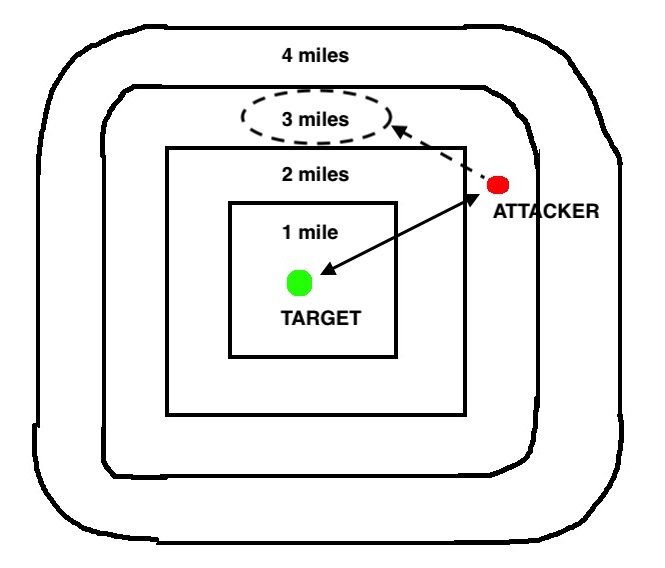
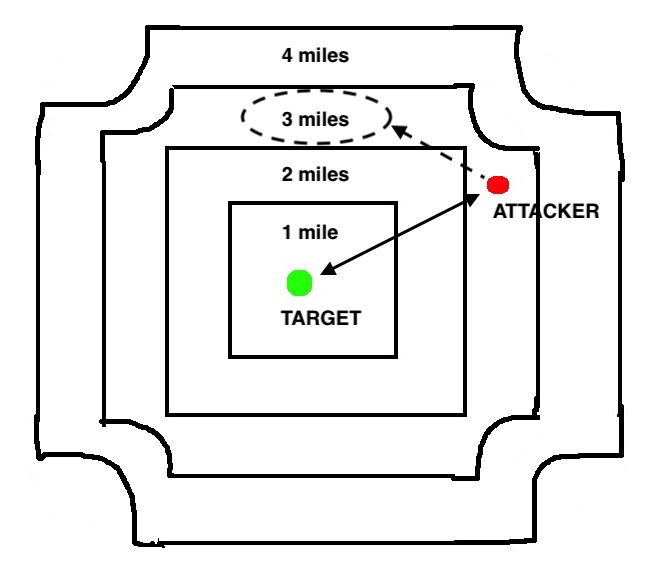
tinder

diff --git a/_posts/2018-07-09-how-tinder-keeps-your-exact-location-a-bit-private.md b/_posts/2018-07-09-how-tinder-keeps-your-exact-location-a-bit-private.md
@@ -1,28 +1,33 @@
 ---
 title: How Tinder keeps your exact location (a bit) private
 layout: post
-tags: [The Adventures of Steve Steveington, Online Tracking]
+tags: [The Steve Steveington Chronicles, Online Tracking]
 og_image: https://robertheaton.com/images/tinder-map.jpg
+published: false
 ---
-You and your good buddy, Steve Steveington, are the co-founders and co-CEOs of an online tracking company. You started the company only a year ago in order to commercialize [a WhatsApp metadata leak that you discovered](/2017/10/09/tracking-friends-and-strangers-using-whatsapp/). You would both really benefit from some co-leadership training, but the venture capital and poorly-pseudonymized personal data are flowing freely and no one else seems to mind. You've built a powerful and precariously employed team of 65 assorted interns, work experience kids, Task Rabbits and unpaid trial workers. You recently moved into an exquisite new office in the 19th Century Literature section of the San Francisco Public Library. Your reputation in the online marketing sector is flourishing, and you've been featured in numerous listicles of the shadiest and best ways to improve your e-commerce conversion rates.
+You and your good buddy, Steve Steveington, are the co-founders and co-CEOs of an online tracking company. You started the company less than a year ago in order to commercialize [a WhatsApp metadata leak that you discovered](/2017/10/09/tracking-friends-and-strangers-using-whatsapp/). You would both really benefit from some co-leadership training, but the venture capital and poorly-pseudonymized personal data are flowing freely and no one else seems to mind. You've built the company into a powerful and precariously employed team of 65 assorted interns, work experience kids, Task Rabbits and unpaid trial workers. You recently moved into an exquisite new office in the 19th Century Literature section of the San Francisco Public Library, and your reputation in the online marketing sector is flourishing. You've been featured prominently in numerous listicles of the shadiest and best ways to improve your e-commerce conversion rates.
 
 But beneath this shiny and disreputable exterior lies turmoil. You suspect that Steve Steveington, your good buddy, co-founder and co-CEO, is plotting against you. He keeps darting out of the library at odd times, for hours on end. When you ask him where he's going he makes a weird grimace that he probably thinks is a malevolent smile and tells you not to worry. You've ordered the librarians to tail him several times, but they are all terrible at fieldcraft.
 
 You've lived in Silicon Valley for long enough to know the kind of cutthroat villainy that goes on when large sums of money and user data are at stake. Steve Steveington and his weird grimace could be doing anything out there. He's probably trying to convince your investors to squeeze you out. You think that Peter Thiel will back you up, but aren't so sure about Aunt Martha. You have to find out where Steve is going.
 
-Fortunately, the Stevester is an avid Tinder user. The Tinder app tracks its users' locations in order to tell potential matches how far away they are from each other. This enables users to make rational decisions about whether it's really worth traveling 8 miles to see a 6, 6.5 tops when they've got a tub of ice cream in the fridge and work the next morning. Tinder knows exactly where Steve is going. And if you can find the right exploit, soon you will too.
+Fortunately, the Stevester is an avid Tinder user. The Tinder app tracks its users' locations in order to tell potential matches how far away they are from each other. This enables users to make rational decisions about whether it's really worth traveling 8 miles to see a 6, 6.5 tops, when they've alternatively got a tub of ice cream in the fridge and work the next morning. Tinder knows exactly where Steve is going. And if you can find the right exploit, soon you will too.
 
-You scour the online literature to find inspiration from Tinder's past location privacy vulnerabilities. There are several to choose from. In 2013, it was discovered that [the Tinder servers sent potential matches' exact co-ordinates to the Tinder app](https://qz.com/106731/tinder-exposed-users-locations/). The app used these co-ordinates internally to calculate distances between users, and did not display them in the interface. However, an attacker could easily intercept their own network traffic, inspect the raw data, and reveal their target's exact location. When the issue was discovered, Tinder quietly stopped sending precise co-ordinates to their app and [denied the possibility that the vulnerability was either avoidable or bad](https://qz.com/106731/tinder-exposed-users-locations/).
+You scour the online literature to find inspiration from Tinder's past location privacy vulnerabilities. There are several to choose from. In 2013, it was discovered that [the Tinder servers sent potential matches' exact co-ordinates to the Tinder phone app](https://qz.com/106731/tinder-exposed-users-locations/). The app used these co-ordinates internally to calculate distances between users, and did not display them in the interface. However, an attacker could easily intercept their own network traffic, inspect the raw data, and reveal their target's exact location. When the issue was discovered, Tinder quietly stopped sending precise co-ordinates to their app and [denied the possibility that the vulnerability was either avoidable or bad](https://qz.com/106731/tinder-exposed-users-locations/).
 
 <img src="/images/tinder-json.jpg" />
 
-Tinder tried to fix this vulnerability by calculating distances on their servers instead of in their app. Now the network messages sent from server to app contained only these pre-calculated distances, with no actual locations. However, Tinder carelessly sent these distances as exact, unrounded numbers with a robust 15 decimal places of precision. This new oversight allowed [sneaky researchers to once again pinpoint a target's exact location](http://blog.includesecurity.com/2014/02/how-i-was-able-to-track-location-of-any.html) using a different, trilateration exploit. The researchers sent 3 spoofed location updates to Tinder to jump themselves around the city. At each new location they asked Tinder how far away their target was. Finally they drew 3 circles on a map, with centers equal to the spoofed locations and radii equal to the distances that they got back from Tinder. The point at which these circles intersected was their target's location, to a reported accuracy of 30 meters.
+Tinder tried to fix this vulnerability by calculating distances on their servers instead of in their app. Now the network messages sent from server to app contained only these pre-calculated distances, with no actual locations. However, Tinder carelessly sent these distances as exact, unrounded numbers with a robust 15 decimal places of precision.
+
+<img src="/images/tinder-json2.jpg" />
+
+This new oversight allowed [sneaky researchers to once again pinpoint a target's exact location](http://blog.includesecurity.com/2014/02/how-i-was-able-to-track-location-of-any.html) using a different, trilateration exploit. The researchers sent 3 spoofed location updates to Tinder to jump themselves around the city. At each new location they asked Tinder how far away their target was. Finally they drew 3 circles on a map, with centers equal to the spoofed locations and radii equal to the distances that they got back from Tinder. The point at which these circles intersected was their target's location, to a reported accuracy of 30 meters.
 
 <img src="/images/tinder-trilateration.jpg" />
 
-Tinder inwardly sighed, wished that people would just leave it alone, and quietly fixed the vulnerability, properly this time. Tinder now only ever sends your phone pre-rounded distances, in miles, with zero decimal places of precision. It's still possible to use the above trilateration procedure to locate a target to within a mile or so. But in the densely populated (by US standards) city of San Francisco, this won't tell you anything useful about where Steve Steveington is committing his dastardly subterfuge.
+Tinder inwardly sighed, wished that people would just leave it alone, and quietly fixed the vulnerability, properly this time. Tinder now only ever sends your phone pre-rounded distances, in miles, with zero decimal places of precision. It's still possible to use the above trilateration procedure to locate a target to within a mile or so. But in the densely populated city of San Francisco, this won't tell you anything useful about where Steve Steveington is committing his dastardly subterfuge.
 
-One Friday afternoon, Steve Steveington and his weird grimace once again sneak out to commit various deeds in undisclosed locations. You have to get to the bottom of this before it's too late. You barricade yourself in your private office, in the reading room on the 4th floor. After fifteen minutes of deep breathing and even deeper thought, you hatch the beginnings of a plan to resuscitate the Tinder trilateration exploit and work out where the Stevester is going.
+On Friday afternoon, Steve Steveington and his weird grimace once again sneak out to commit various deeds in undisclosed locations. You have to get to the bottom of this before it's too late. You barricade yourself in your private office, in the reading room on the 4th floor. After fifteen minutes of deep breathing and even deeper thought, you hatch the beginnings of a plan to resuscitate the Tinder trilateration exploit and work out where the Stevenator is going.
 
 Suppose that the Tinder servers now calculate exact distances, round them to the nearest integer, then send these rounded numbers to your phone. You could start a new attack in the same way as the trilateration researchers. You could spoof a Tinder location update and ask Tinder how far away your target is. Tinder might say "8 miles", which on its own is of little use to you. But you could then start shuffling north, pixel-by-pixel, with each step asking Tinder again how far away your target is. "8 miles" it might say. "8 miles, 8 miles, 8 miles, 8 miles, 7 miles." If your assumptions about Tinder's approximation process are correct, then the point at which it flips from responding with "8 miles" to "7 miles" is the point at which your target is exactly 7.5 miles away. If you repeat this process 3 times and draw 3 circles, you've got trilateration again.
 
@@ -32,7 +37,11 @@ But something is wrong. Night falls, dinnertime passes, and you still haven't re
 
 <img src="/images/tinder-trilateration-fail.jpg" />
 
-Frustrated, you take a step back. You bump your head on a low shelf. After extricating yourself from an avalanche of cleaning products, you contemplate the possibility that your assumptions might be wrong. Maybe Tinder is doing something more elaborate than calculating exact distances and rounding then. You grab a snack from the library employee fridge to help you think. Shortly after 1am, everything becomes clear.
+Frustrated, you take a step back. You bump your head on a low shelf. After extricating yourself from an avalanche of cleaning products, you contemplate the possibility that your assumptions might be wrong. Maybe Tinder is doing something more elaborate than calculating exact distances and rounding then. You grab a snack from the library employee fridge to help you think. You stop drawing circles and you start shuffling along lines that rake across Wilson's true location, dropping a single pin whenever your distance from him changes.
+
+Shortly after 1am, everything becomes clear.
+
+<img src="/images/tinder-map.jpg" />
 
 Tinder is now so committed to privacy that it has burst the surly bonds of conventional geometry. It has cast aside Euclid. It has no need for [the Haversine Formula](https://en.wikipedia.org/wiki/Haversine_formula). Instead, when calculating distances between matches, Tinder introduces 2 new innovations.
 
@@ -40,7 +49,7 @@ First and most important, it divides the city up into grid squares, very roughly
 
 <img src="/images/tinder-grid-snap.jpg" />
 
-Second, it calculates distances using what appears to be an entirely custom formula. To calculate the distance between an attacker and a target, it overlays a map of rough, pre-determined distances, and centres it on the target's grid square. It looks up the attacker's position in the overlay, and returns the corresponding distance. For Euclidean distance calculations, this overlay would be a set of concentric circles.
+Second, it calculates distances using what appears to be an entirely custom formula. To calculate the distance between an attacker and a target, it overlays a map of rough, pre-determined distances, and centres it on the target's grid square. It looks up the attacker's position in the overlay, and returns the corresponding distance. For normal, Euclidean distance calculations, this overlay would be a set of concentric circles.
 
 <img src="/images/tinder-circles.jpg" />
 
@@ -52,9 +61,7 @@ Amongst other things, this means that Tinder often returns distances that are a 
 
 Grid-snapping is the key innovation in Tinder's approach. It means that Tinder will always return the same distance if a target is located anywhere within a given grid square. Your shuffling trilateration exploit will not work, and indeed if Tinder has implemented grid-snapping correctly, no purely distance-based exploit can ever work. There is no way to find a target's location with any more precision than knowing that they are somewhere in one of Tinder's (roughly) 1 mile by 1 mile grid squares. Even this coarse-grained snooping should give Tinder users pause for thought. But it actually feels like about as much privacy as you can reasonably expect from an app whose main feature is that it tells strangers approximately where you are.
 
-<img src="/images/tinder-map.jpg" />
-
-You aren't actually sure why Tinder uses its odd distance metric. As long user locations are snapped to a grid, Tinder could continue to use the normal Euclidean distance with no loss of privacy. Perhaps it's simply that their metric is faster to calculate, and despite what Gordon Moore promised us, computers aren't free yet. Nonetheless, this all adds up to Tinder being secure - in this very specific respect - and you being screwed.
+You aren't actually sure why Tinder uses its odd, rounded square distance metric. As long as user locations are snapped to a grid, Tinder could continue to use the normal Euclidean distance with no loss of privacy. Perhaps it's simply that the new metric is faster to calculate, and despite what Gordon Moore promised us, computers aren't free yet. Nonetheless, this all adds up to Tinder being secure - in this very specific respect - and you being screwed.
 
 The library is pitch black apart from the green glow of the photocopier. You sadly but diligently clean up after yourself. You tidy the supply closet and toss Wilson's phone into the library's industrial shredder. You leave by the front entrance, ignoring the wailing alarms, and hail a taxi. You don't have any cash on you, but the driver doesn't know that until you duck-and-roll out of the door at the traffic lights a few blocks before your apartment.
 
@@ -62,6 +69,8 @@ The next morning Steve Steveington presents you with one of the two matching "Co
 
 As you fall asleep that night you wonder what happens to Tinder's co-ordinate grid at the North Pole...
 
-TO BE CONTINUED...
+<img src="/images/tinder-north-pole.jpg" />
 
-*[The code used in this post is all on Github](https://github.com/robert/tinder-locations). Please do let me know if you have any questions or find any mistakes!*
+> [Image source](https://www.jasondavies.com/maps/rotate/)
+
+*[The code that you used in this post is all on Github](https://github.com/robert/tinder-locations). Please do [let yourself know](/about) if you have any questions or find any mistakes.*

diff --git a/_posts/2017-10-09-tracking-friends-and-strangers-using-whatsapp.md b/_posts/2017-10-09-tracking-friends-and-strangers-using-whatsapp.md
@@ -1,7 +1,7 @@
 ---
 title: Tracking friends and strangers using WhatsApp
 layout: post
-tags: [The Adventures of Steve Steveington, Online Tracking]
+tags: [The Steve Steveington Chronicles, Online Tracking]
 ---
 You and your good buddy, Steve Steveington, are in training for an arduous charity walk. You signed up together on the spur of the moment and pledged to hold each other accountable whilst you got in shape for the big day. However, you have developed reason to suspect that Steve Steveington is losing his commitment to the plan and is staying up until the early hours of the morning partying at nightclubs or playing Call of Duty. This is unacceptable - if he falls behind because he didn't take your training program seriously then you're not going to be the one to drag him round the punishing 5km course.
 

diff --git a/_posts/2016-10-22-a-tale-of-love-betrayal-social-engineering-and-whatsapp.md b/_posts/2016-10-22-a-tale-of-love-betrayal-social-engineering-and-whatsapp.md
@@ -1,7 +1,7 @@
 ---
 layout: post
 title: A tale of love, betrayal, social engineering and Whatsapp
-tags: [The Adventures of Steve Steveington]
+tags: [The Steve Steveington Chronicles]
 ---
 You are fed up with with your dear friend and bitter rival, Steve Steveington. He claims to have no idea how all your D&D characters came to be renamed "Sir Doofus McGoofus \<obscene drawing\>", but your instincts tell you that he probably actually does. Two weeks ago at a pie-eating contest, he met what he has been incessantly describing as "Agatha, woman of my dreams". He has been WhatsApp-ing her constantly, and has been a picture of smug, stupid-faced douchbaggery. You are of course very happy for him. But, at the same time, you know that would be much happier if you destroyed his life.
 

diff --git a/_posts/2018-05-01-re-all-those-regrettable-posts-that-you-thought-were-gone.md b/_posts/2018-05-01-re-all-those-regrettable-posts-that-you-thought-were-gone.md
@@ -1,7 +1,7 @@
 ---
 title: "Re: All those regrettable posts that you thought were gone"
 layout: post
-tags: [The Adventures of Steve Steveington, Online Tracking]
+tags: [The Steve Steveington Chronicles, Online Tracking]
 custom_meta: To my good friend, Steve Steveington. Thank you for your email advising me of my impending doom and destruction. I’m sorry that it’s taken me so long to reply. Work has been crazy.
 ---
 To my good friend, Steve Steveington,

diff --git a/_posts/2014-12-08-fun-with-your-friends-facebook-and-tinder-session-tokens.md b/_posts/2014-12-08-fun-with-your-friends-facebook-and-tinder-session-tokens.md
@@ -6,7 +6,7 @@ redirect_from:
 hn: 8758196
 weight: 2
 blurb: Hacking for love and vengeance.
-tags: [The Adventures of Steve Steveington]
+tags: [The Steve Steveington Chronicles]
 ---
 <h3>The Setup</h3>
 
